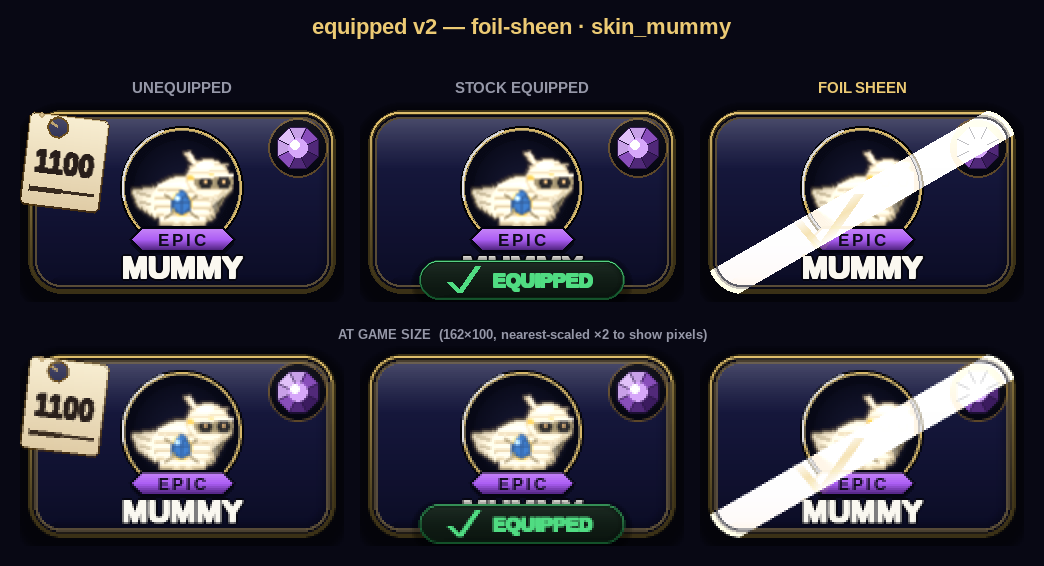
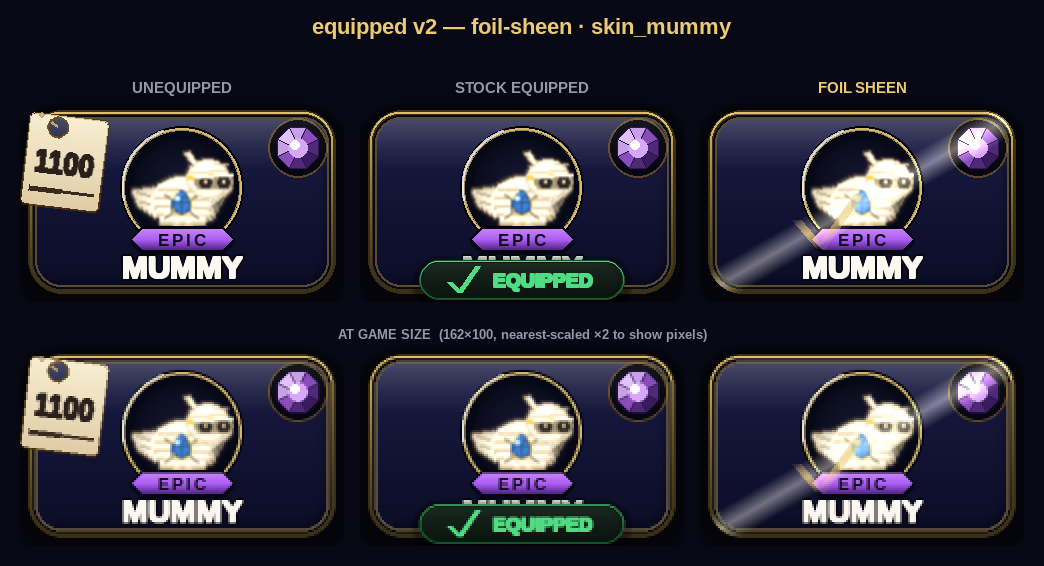
Add foil-sheen equipped card v2 round 1
Claude-Session: https://claude.ai/code/session_01DaGYw11VdAubog2VGiiucC

Changed region(s): [[0.6743, 0.6307, 0.9808, 0.9611], [0.6743, 0.1802, 0.9808, 0.5106]]

diff --git a/tools/_store_equipped_v2_foil_sheen_r1.py b/tools/_store_equipped_v2_foil_sheen_r1.py
@@ -40,14 +40,25 @@ CARD_RAD = sc.m(sc.CARD_RAD)
 
 
 def _card_mask():
-    """White rounded-rect matching the card body — used to clip the foil sweep
-    to the card silhouette so cream never bleeds into the margin / corners."""
+    """White rounded-rect matching the card body — used to clip normal-alpha
+    layers to the card silhouette so cream never bleeds into the margin."""
     mask = pygame.Surface((PANEL_W, PANEL_H), pygame.SRCALPHA)
     pygame.draw.rect(mask, (255, 255, 255, 255), rect, border_radius=CARD_RAD)
     return mask
 
 
+def _card_rgb_mask():
+    """Black field with a WHITE rounded-rect over the body. BLEND_RGB_ADD ignores
+    alpha, so premultiplied additive layers must be clipped by MULTIPLYING RGB
+    against this (white=keep inside, black=kill outside)."""
+    mask = pygame.Surface((PANEL_W, PANEL_H), pygame.SRCALPHA)
+    mask.fill((0, 0, 0, 255))
+    pygame.draw.rect(mask, (255, 255, 255, 255), rect, border_radius=CARD_RAD)
+    return mask
+
+
 CARD_MASK = _card_mask()
+CARD_RGB_MASK = _card_rgb_mask()
 
 
 # ── Panel 0 — UNEQUIPPED ──────────────────────────────────────────────────────
@@ -91,14 +102,16 @@ p2.blit(wm, (0, 0))
 
 # Step 2 — the diagonal foil band at -30°, pivoted on the card centre so it
 # passes through the middle and rides across the tick. Warm cream only.
-band = pygame.Surface((PANEL_W, PANEL_H), pygame.SRCALPHA)
-band_mask = pygame.Surface((PANEL_W, PANEL_H), pygame.SRCALPHA)   # alpha stencil
+band = pygame.Surface((PANEL_W, PANEL_H), pygame.SRCALPHA)         # premult cream
+band_mask = pygame.Surface((PANEL_W, PANEL_H), pygame.SRCALPHA)    # alpha stencil
 tan30 = math.tan(math.radians(30))
 HALF = 20
-# Additive over the already-bright glass dome clips to pure white; a softer peak
-# keeps the sweep reading as WARM CREM foil rather than a blown-out white slab
-# over the hero, while dark card body still lifts to a clear cream glint.
-PEAK = 58
+# BLEND_RGB_ADD adds source RGB regardless of alpha, so the falloff is baked
+# INTO the cream channels (premultiplied) — a raw alpha ramp would add full cream
+# everywhere and blow the sweep to a flat white bar. The peak is tuned so dark
+# card body lifts to a clear warm-cream glint while the dome only kisses hot.
+cr, cg, cb = CREAM
+PEAK = 108
 for x in range(PANEL_W):
     yc = PANEL_H // 2 - (x - PANEL_W // 2) * tan30
     y0 = max(0, int(yc - HALF))
@@ -107,9 +120,9 @@ for x in range(PANEL_W):
         a = int(PEAK * (1 - abs(y - yc) / HALF))
         if a <= 0:
             continue
-        band.set_at((x, y), (*CREAM, a))
+        band.set_at((x, y), (cr * a // 255, cg * a // 255, cb * a // 255, 255))
         band_mask.set_at((x, y), (255, 255, 255, a))
-band.blit(CARD_MASK, (0, 0), special_flags=pygame.BLEND_RGBA_MIN)
+band.blit(CARD_RGB_MASK, (0, 0), special_flags=pygame.BLEND_RGB_MULT)
 band_mask.blit(CARD_MASK, (0, 0), special_flags=pygame.BLEND_RGBA_MIN)
 p2.blit(band, (0, 0), special_flags=pygame.BLEND_RGB_ADD)
 
